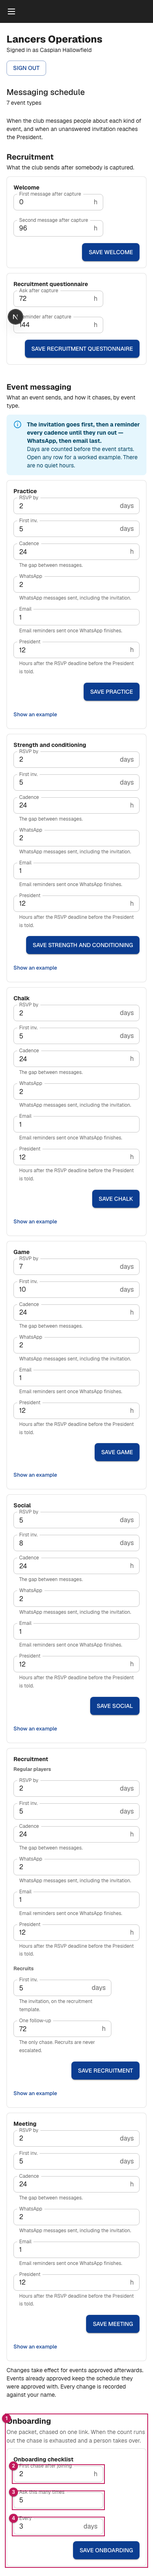
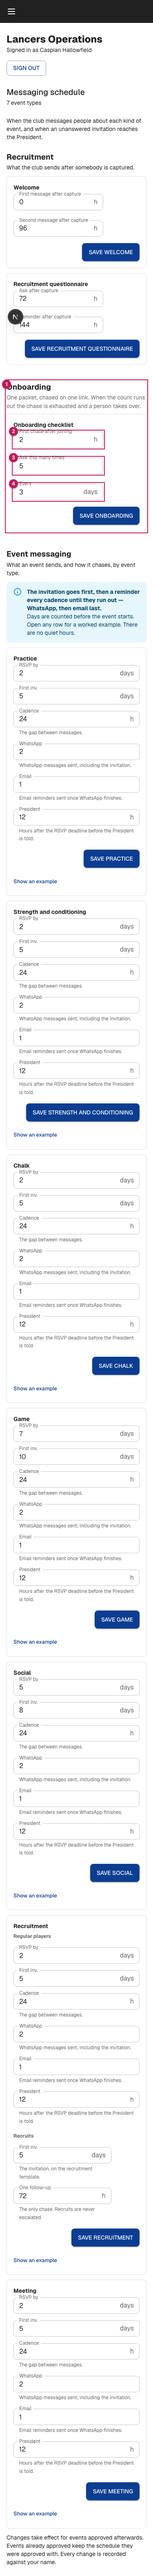
W11 approved: onboarding sits below recruitment, and all eleven are done
Placement corrected before recording — the shipped page renders the
Onboarding section last, and Brian wants it directly below Recruitment
and above Event messaging: the two person-lifecycle chases together, then
the events. Reshot, then approved.

That closes the last workflow. Eleven of eleven approved, thirty screens,
every one photographed against a running application rather than drawn.

W11 took three drafts and the first two were wrong in instructive ways.
The first configured the checklist — which items apply, their
verification class, a per-item owner — and Brian rejected the target
outright, which is what took the inventory from twelve workflows to
eleven. The second showed an invented page, repurposing real event rows
into onboarding rows and marking one, which implied this mission was
changing how practices are messaged. What survived is three values in a
section the page already had, sitting under a heading that until now read
"Not built yet."

Neither of the decisions it carried at draft went to Brian in the end.
The escalation office is answered by roles, which already ships president
as a constitutional office. And where the chase lives in the schema is a
technical decision for implementation, not a product one to raise.

Claude-Session: https://claude.ai/code/session_013irN5qvuWhLTUnwEurMgwR

Changed region(s): [[0.0293, 0.1246, 0.968, 0.9965], [0.44, 0.6851, 0.4987, 0.7474], [0.9387, 0.9342, 0.968, 0.9965]]

diff --git a/missions/intake/M-ONBOARDING-AND-INFORMATION-COMPLETION/mockups/index.html b/missions/intake/M-ONBOARDING-AND-INFORMATION-COMPLETION/mockups/index.html
@@ -97,7 +97,7 @@
     <main>
       <h1>M-ONBOARDING-AND-INFORMATION-COMPLETION · mockup review</h1>
       <p class="sub">
-        M-ONBOARDING-AND-INFORMATION-COMPLETION · 11 frozen workflows · 31 screens · 10 of 11 done ·
+        M-ONBOARDING-AND-INFORMATION-COMPLETION · 11 frozen workflows · 31 screens · 11 of 11 done ·
         grounded in main at 332bc6b
       </p>
       <table>
@@ -238,10 +238,10 @@
             <td>W11</td>
             <td><a href="W11-set-onboardings-chase.html">Set onboarding's chase</a></td>
             <td><a href="../workflows/W11-set-onboardings-chase.html">specification</a></td>
-            <td>—</td>
+            <td><a href="../acceptance/W11.md">acceptance</a></td>
             <td>1</td>
             <td>current vs proposed · new surfaces</td>
-            <td><span class="state spec_draft">spec_draft</span></td>
+            <td><span class="state done">done</span></td>
             <td><span class="muted">none</span></td>
           </tr>
         </tbody>
@@ -251,9 +251,9 @@
         files in this ledger. Do not hand-edit it: <code>npm run intake -- status</code> fails when
         it drifts. Feedback is by screen ID, for example <code>W1-02</code>. 31 of 31 screens were
         photographed out of the running application at a browser-measured 375px and 1280px; the rest
-        are drawings of surfaces that do not exist yet. Next action: W11 — Set onboarding chase:
-        specification drafted and two screens shot; one open decision on where the chase actually
-        lives in the schema, since messaging_schedules is keyed by event type.
+        are drawings of surfaces that do not exist yet. Next action: All eleven workflows are
+        approved. Next: assemble the packet under missions/packets/, validate it against the frozen
+        inventory, and prepare the intake-only PR.
       </p>
     </main>
   </body>

diff --git a/missions/intake/M-ONBOARDING-AND-INFORMATION-COMPLETION/mockups/proposals/W11-01.js b/missions/intake/M-ONBOARDING-AND-INFORMATION-COMPLETION/mockups/proposals/W11-01.js
@@ -430,6 +430,15 @@
     const save = row.querySelector("button[type='submit'], .MuiButton-root");
     if (save && button) save.textContent = button;
 
+    // Onboarding belongs directly below Recruitment and above Event messaging —
+    // the two person-lifecycle chases together, then the events. The shipped page
+    // renders it last, so the proposal moves it.
+    const recruitment = must(
+      $('[data-testid="recruitment-cycle-section"]'),
+      "the page has no recruitment section to sit below",
+    );
+    recruitment.after(section);
+
     return { section, row, controls: $$(".MuiTextField-root", row) };
   };
 
@@ -468,7 +477,9 @@
     "One packet, chased on one link. When the count runs out the chase is exhausted and a person takes over.",
   );
 
-  // 1 — the section that already exists, and today reads "Not built yet."
+  // 1 — the section that already exists, and today reads "Not built yet." Moved
+  //     to sit directly below Recruitment and above Event messaging: the two
+  //     person-lifecycle chases together, then the events.
   mark(section, 1);
 
   // 2 — how long after joining the first chase goes, so it never overtakes the

diff --git a/missions/intake/M-ONBOARDING-AND-INFORMATION-COMPLETION/mockups/src/_admin-page.js b/missions/intake/M-ONBOARDING-AND-INFORMATION-COMPLETION/mockups/src/_admin-page.js
@@ -78,6 +78,15 @@ const fillOnboardingSection = ({ label, fields, button }) => {
   const save = row.querySelector("button[type='submit'], .MuiButton-root");
   if (save && button) save.textContent = button;
 
+  // Onboarding belongs directly below Recruitment and above Event messaging —
+  // the two person-lifecycle chases together, then the events. The shipped page
+  // renders it last, so the proposal moves it.
+  const recruitment = must(
+    $('[data-testid="recruitment-cycle-section"]'),
+    "the page has no recruitment section to sit below",
+  );
+  recruitment.after(section);
+
   return { section, row, controls: $$(".MuiTextField-root", row) };
 };
 

diff --git a/missions/intake/M-ONBOARDING-AND-INFORMATION-COMPLETION/mockups/src/W11-01.js b/missions/intake/M-ONBOARDING-AND-INFORMATION-COMPLETION/mockups/src/W11-01.js
@@ -22,7 +22,9 @@ setSectionNote(
   "One packet, chased on one link. When the count runs out the chase is exhausted and a person takes over.",
 );
 
-// 1 — the section that already exists, and today reads "Not built yet."
+// 1 — the section that already exists, and today reads "Not built yet." Moved
+//     to sit directly below Recruitment and above Event messaging: the two
+//     person-lifecycle chases together, then the events.
 mark(section, 1);
 
 // 2 — how long after joining the first chase goes, so it never overtakes the

diff --git a/missions/intake/M-ONBOARDING-AND-INFORMATION-COMPLETION/specifications.html b/missions/intake/M-ONBOARDING-AND-INFORMATION-COMPLETION/specifications.html
@@ -7262,7 +7262,7 @@
         <section class="doc" id="sec14">
           <header>
             <h2>W11 — Set onboarding's chase</h2>
-            <span class="chip warn">draft, not approved</span>
+            <span class="chip ok">spec approved</span>
             <span class="file">workflows/W11-set-onboardings-chase.md</span>
           </header>
           <h1 id="s14-h1">W11 — Set onboarding's chase</h1>

diff --git a/missions/intake/M-ONBOARDING-AND-INFORMATION-COMPLETION/workflows/W11-set-onboardings-chase.html b/missions/intake/M-ONBOARDING-AND-INFORMATION-COMPLETION/workflows/W11-set-onboardings-chase.html
@@ -304,7 +304,7 @@
         <section class="doc">
           <header>
             <h2>W11 — Set onboarding's chase</h2>
-            <span class="chip warn">draft, not approved</span>
+            <span class="chip ok">spec approved</span>
             <span class="file">workflows/W11-set-onboardings-chase.md</span>
           </header>
           <h1 id="s14-h1">W11 — Set onboarding's chase</h1>

diff --git a/missions/intake/M-ONBOARDING-AND-INFORMATION-COMPLETION/acceptance/W11.md b/missions/intake/M-ONBOARDING-AND-INFORMATION-COMPLETION/acceptance/W11.md
@@ -1,0 +1,57 @@
+# Acceptance — W11
+
+- Workflow: W11 — Set onboarding's chase
+- Screen IDs: W11-01
+- Grounding: screenshots — `/operate/admin/messaging` at **`main@0a04be7`**, a
+  real implemented route, both sides, measured 1280 and 375.
+- Verdict: approved
+- Brian's exact words: "Okay, but the onboarding is not in the right place. It should be right below recruitment. Other than that, this looks below recruitment, above events. Other than that, approved."
+- Date: 2026-09-02
+- Open feedback: none. The placement he named was applied and reshot before this
+  was recorded.
+- Evidence paths:
+  - `workflows/W11-set-onboardings-chase.md`
+  - `mockups/W11-set-onboardings-chase.html`
+  - `mockups/shots/shots.json`, `mockups/src/W11-01.js`, `mockups/src/_admin-page.js`
+
+## What this workflow became
+
+It was drafted twice and rejected twice before this.
+
+1. **The first draft configured the checklist** — which items apply, their
+   verification class, a per-item owner. Brian rejected the whole target on
+   2026-09-02, and the frozen inventory went from twelve workflows to eleven.
+2. **The second showed an invented page**, repurposing real event rows into
+   onboarding rows and marking one of them, which implied this mission was
+   changing how practices are messaged.
+
+What survived is three values in a section the page already has.
+
+## The section was already there
+
+`/operate/admin/messaging` at `main@0a04be7` carries three sections: Recruitment
+(built), Event messaging (built), and **Onboarding, whose heading renders over
+the words "Not built yet."** This workflow is that section, and it is placed
+directly below Recruitment and above Event messaging — the two person-lifecycle
+chases together, then the events.
+
+## Decisions
+
+| Decision                                                              | Now      |
+| ----------------------------------------------------------------------- | -------- |
+| The checklist is the approved inventory, and nobody configures it      | locked   |
+| There are no per-item owners; only the four-role group resolves        | locked   |
+| What is configured is how many times, how often, and the first delay   | locked   |
+| There is no "give up after" value; it is the count times the interval  | locked   |
+| A first-chase delay in hours, measured from joining                    | locked   |
+| Nothing on this page escalates; the chase simply exhausts              | locked   |
+| The escalation office is read from the club's roles, never configured  | locked   |
+| The count is spent on delivery, never on a failure                     | locked   |
+| There are no quiet hours                                               | locked   |
+| Onboarding sits below Recruitment and above Event messaging            | locked   |
+
+**No decision was left open.** The two this workflow carried at draft — where
+the escalation office is configured, and what shape the chase takes in the
+schema — were both closed rather than escalated: the first because `roles`
+already answers it, the second because it is a technical decision for
+implementation and not this workflow's to make.
